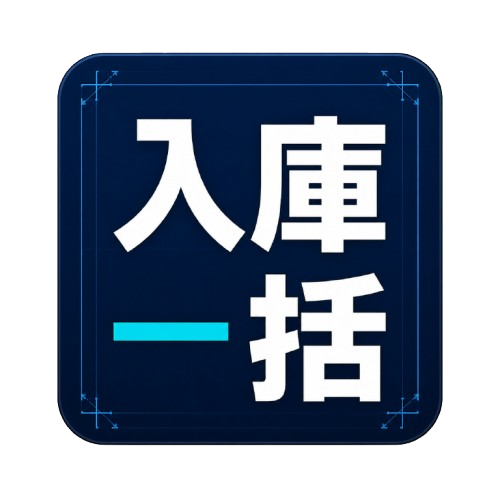
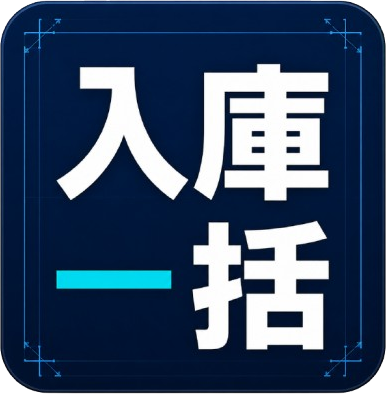
Fix connect Supabase

diff --git a/lib/productHub.ts b/lib/productHub.ts
@@ -2,21 +2,48 @@ import type { ProductHubRecord, ProductHubSettings } from './types'
 
 type ProductHubApiRow = {
   product_code?: unknown
+  product_name?: unknown
   shipping_name?: unknown
   floor?: unknown
+  order_memo_1?: unknown
   order_1?: unknown
+  rakumart_url_1?: unknown
   rm_1?: unknown
+  order_memo_2?: unknown
   order_2?: unknown
+  rakumart_url_2?: unknown
   rm_2?: unknown
+  order_memo_3?: unknown
   order_3?: unknown
+  rakumart_url_3?: unknown
   rm_3?: unknown
+  order_memo_4?: unknown
   order_4?: unknown
+  rakumart_url_4?: unknown
   rm_4?: unknown
+  order_memo_5?: unknown
   order_5?: unknown
+  rakumart_url_5?: unknown
   rm_5?: unknown
 }
 
 const REQUEST_CHUNK_SIZE = 50
+const PRODUCTS_TABLE_NAME = 'products'
+const SELECT_COLUMNS = [
+  'product_code',
+  'product_name',
+  'floor',
+  'order_memo_1',
+  'rakumart_url_1',
+  'order_memo_2',
+  'rakumart_url_2',
+  'order_memo_3',
+  'rakumart_url_3',
+  'order_memo_4',
+  'rakumart_url_4',
+  'order_memo_5',
+  'rakumart_url_5',
+].join(',')
 
 function normalizeCell(value: unknown): string | null {
   const text = String(value ?? '').trim()
@@ -24,10 +51,34 @@ function normalizeCell(value: unknown): string | null {
   return text
 }
 
-function normalizeApiUrl(apiUrl: string): string {
-  const trimmed = apiUrl.trim()
+function normalizeSupabaseUrl(input: string): string {
+  const trimmed = input.trim().replace(/\/+$/, '')
   if (!trimmed) return ''
-  return trimmed.replace(/\/+$/, '')
+
+  let url: URL
+  try {
+    url = new URL(trimmed)
+  } catch {
+    throw new Error('Supabase URLの形式が正しくありません。')
+  }
+
+  if (!url.protocol.startsWith('http')) {
+    throw new Error('Supabase URLは https:// から始まるURLを入力してください。')
+  }
+
+  const path = url.pathname.replace(/\/+$/, '')
+  if (path.endsWith(`/rest/v1/${PRODUCTS_TABLE_NAME}`)) {
+    return `${url.origin}${path}`
+  }
+  if (path.endsWith('/rest/v1')) {
+    return `${url.origin}${path}/${PRODUCTS_TABLE_NAME}`
+  }
+
+  return `${url.origin}/rest/v1/${PRODUCTS_TABLE_NAME}`
+}
+
+function escapePostgrestInValue(value: string): string {
+  return `"${value.replace(/\\/g, '\\\\').replace(/"/g, '\\"')}"`
 }
 
 function toRecord(row: ProductHubApiRow): ProductHubRecord | null {
@@ -37,10 +88,22 @@ function toRecord(row: ProductHubApiRow): ProductHubRecord | null {
   return {
     productCode,
     productCodeLc: productCode.toLowerCase(),
-    productName: normalizeCell(row.shipping_name) ?? '',
+    productName: normalizeCell(row.product_name) ?? normalizeCell(row.shipping_name) ?? '',
     floor: normalizeCell(row.floor) ?? '',
-    orders: [row.order_1, row.order_2, row.order_3, row.order_4, row.order_5].map(normalizeCell),
-    rms: [row.rm_1, row.rm_2, row.rm_3, row.rm_4, row.rm_5].map(normalizeCell),
+    orders: [
+      row.order_memo_1 ?? row.order_1,
+      row.order_memo_2 ?? row.order_2,
+      row.order_memo_3 ?? row.order_3,
+      row.order_memo_4 ?? row.order_4,
+      row.order_memo_5 ?? row.order_5,
+    ].map(normalizeCell),
+    rms: [
+      row.rakumart_url_1 ?? row.rm_1,
+      row.rakumart_url_2 ?? row.rm_2,
+      row.rakumart_url_3 ?? row.rm_3,
+      row.rakumart_url_4 ?? row.rm_4,
+      row.rakumart_url_5 ?? row.rm_5,
+    ].map(normalizeCell),
   }
 }
 
@@ -52,60 +115,80 @@ function chunkCodes(codes: string[]): string[][] {
   return chunks
 }
 
+function parseErrorMessage(responseText: string): string {
+  try {
+    const parsed = JSON.parse(responseText) as {
+      error?: string
+      message?: string
+      details?: string
+      hint?: string
+    }
+    return [parsed.error, parsed.message, parsed.details, parsed.hint]
+      .filter(Boolean)
+      .join(' / ') || responseText
+  } catch {
+    return responseText
+  }
+}
+
 export async function fetchProductHubRecords(settings: ProductHubSettings, productCodes: string[]): Promise<ProductHubRecord[]> {
-  const apiUrl = normalizeApiUrl(settings.apiUrl)
   const apiKey = settings.apiKey.trim()
 
-  if (!apiUrl) {
-    throw new Error('商品DB API URLを入力してください。')
+  if (!settings.apiUrl.trim()) {
+    throw new Error('Supabase URLを入力してください。')
   }
   if (!apiKey) {
-    throw new Error('商品DB APIキーを入力してください。')
+    throw new Error('Supabase anon keyを入力してください。')
   }
 
-  const uniqueCodes = [...new Set(productCodes.map((code) => code.trim()).filter(Boolean))]
+  const endpoint = normalizeSupabaseUrl(settings.apiUrl)
+  const uniqueCodes = [
+    ...new Set(
+      productCodes
+        .flatMap((code) => {
+          const trimmed = code.trim()
+          return trimmed ? [trimmed, trimmed.toLowerCase()] : []
+        })
+        .filter(Boolean),
+    ),
+  ]
   if (uniqueCodes.length === 0) return []
 
   const records: ProductHubRecord[] = []
 
   for (const chunk of chunkCodes(uniqueCodes)) {
-    let url: URL
-    try {
-      url = new URL(apiUrl)
-    } catch {
-      throw new Error('商品DB API URLの形式が正しくありません。')
-    }
-    url.searchParams.set('codes', chunk.join(','))
+    const url = new URL(endpoint)
+    url.searchParams.set('select', SELECT_COLUMNS)
+    url.searchParams.set(
+      'product_code',
+      `in.(${chunk.map(escapePostgrestInValue).join(',')})`,
+    )
 
     const response = await fetch(url.toString(), {
       method: 'GET',
       headers: {
-        'x-api-key': apiKey,
+        apikey: apiKey,
+        Authorization: `Bearer ${apiKey}`,
+        Accept: 'application/json',
       },
     })
 
     const responseText = await response.text()
 
     if (!response.ok) {
-      let message = responseText
-      try {
-        const parsed = JSON.parse(responseText) as { error?: string; message?: string }
-        message = parsed.error || parsed.message || responseText
-      } catch {
-        // keep raw response text
-      }
-      throw new Error(`商品DB APIの取得に失敗しました（${response.status}）: ${message}`)
+      const message = parseErrorMessage(responseText)
+      throw new Error(`Supabase productsの取得に失敗しました（${response.status}）: ${message}`)
     }
 
     let parsed: unknown
     try {
       parsed = JSON.parse(responseText)
     } catch {
-      throw new Error('商品DB APIのレスポンスをJSONとして読み取れませんでした。')
+      throw new Error('Supabase productsのレスポンスをJSONとして読み取れませんでした。')
     }
 
     if (!Array.isArray(parsed)) {
-      throw new Error('商品DB APIのレスポンス形式が不正です。配列JSONを返す必要があります。')
+      throw new Error('Supabase productsのレスポンス形式が不正です。配列JSONを返す必要があります。')
     }
 
     for (const row of parsed) {

diff --git a/components/NyukoApp.tsx b/components/NyukoApp.tsx
@@ -104,7 +104,7 @@ function ProductHubSettingsPanel({
         <div>
           <p className="eyebrow">PRODUCT DB</p>
           <h2>商品DB連携</h2>
-          <p>配送依頼書の商品コードだけを product-data-hub から取得します。</p>
+          <p>配送依頼書の商品コードだけを Supabase products から直接取得します。</p>
         </div>
         <span
           className={`status-badge ${isReady ? "status-badge--good" : "status-badge--warn"}`}
@@ -115,28 +115,27 @@ function ProductHubSettingsPanel({
 
       <div className="settings-grid settings-grid--header">
         <label className="setting-field">
-          <span>商品DB API URL</span>
+          <span>Supabase URL</span>
           <input
             type="url"
             value={settings.apiUrl}
             onChange={(event) => updateSetting("apiUrl", event.target.value)}
-            placeholder="https://PROJECT_REF.supabase.co/functions/v1/get-products"
+            placeholder="https://PROJECT_REF.supabase.co"
           />
         </label>
         <label className="setting-field">
-          <span>READ API KEY</span>
+          <span>SUPABASE ANON KEY</span>
           <input
             type="password"
             value={settings.apiKey}
             onChange={(event) => updateSetting("apiKey", event.target.value)}
-            placeholder="PRODUCT_READ_API_KEY"
+            placeholder="SUPABASE_ANON_KEY"
           />
         </label>
       </div>
 
       <p className="settings-note settings-note--compact">
-        API URLとREAD API
-        KEYだけ保存します。商品情報・オーダー状況は処理時にだけ取得します。
+        Supabase URLとanon keyだけ保存します。商品情報・オーダー状況は処理時にだけ取得します。
       </p>
     </div>
   );